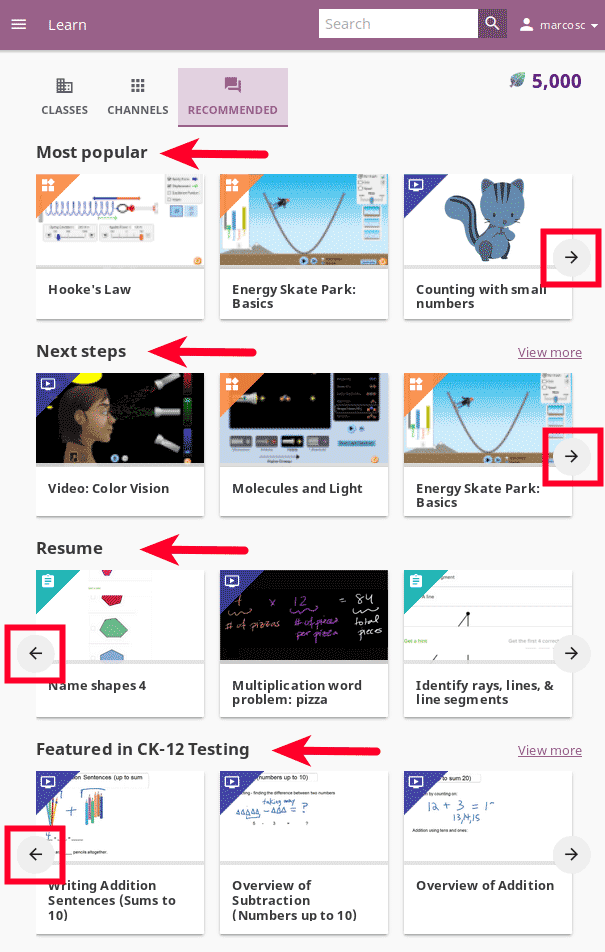
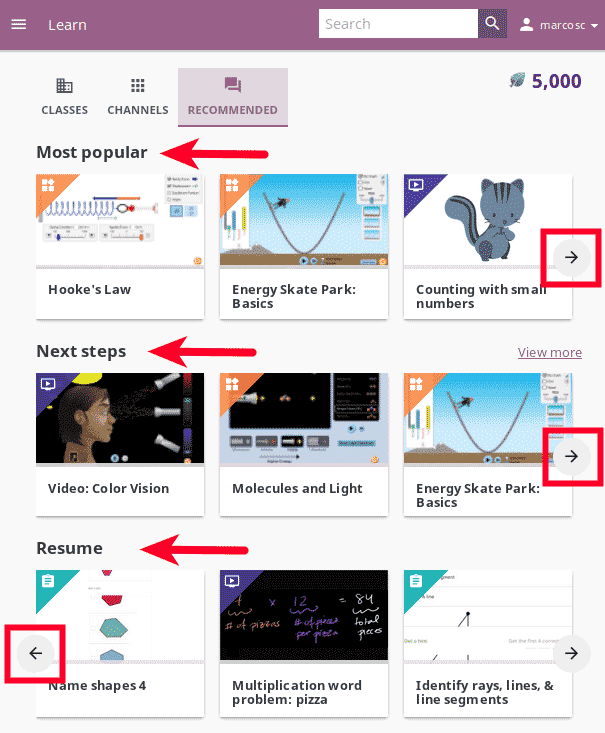
Added latest Navya's suggestions and removed 'Featured' from recommended content

diff --git a/docs/learn.rst b/docs/learn.rst
@@ -27,9 +27,16 @@ To sign in to **Kolibri** and start learning, follow these steps:
    If you start browsing Kolibri as a guest, you need either to select **Sign in** option from the **Guest** menu in the upper right corner, or from the sidebar menu (left or bottom) to open the sign-in page.
 
 	.. figure:: img/learn-page-signin.png
-		:alt: Location of links to "Sign in" to Kolibri.
+		:alt: "Sign in" link in the sidebar.
 
-		Location of links to "Sign in" to Kolibri.
+		"Sign in" link in the sidebar.
+
+
+	.. figure:: img/learn-page-signin2.png
+	    :alt: "Sign in" link in the user menu.
+
+	    "Sign in" link in the user menu.
+
 
 Once you have logged in into Kolibri, you can see and edit your user data from the **Profile** option in the main sidebar menu (below **Learn**).
 
@@ -84,8 +91,7 @@ In this tab (|recommended| icon) you can see various sections:
 
 * **Most popular** displays the most frequently used materials in your school or facility.
 * **Next steps** displays suggestions according to  topics and materials you previously visited.
-* **Resume** displays activities that you started but haven’t finished yet.
-* **Featured in...** displays a preview of activities for each content channel you have access on Kolibri.
+* **Resume** displays activities that you started but haven't finished yet.
 
 These learning topics and materials are either related to what you were doing the last time you used Kolibri. or recommended by your teachers and coaches.
 

diff --git a/docs/coach.rst b/docs/coach.rst
@@ -109,10 +109,10 @@ Use this tab (|channels| icon) to access the full report of activity progress fo
 
 When you navigate to the last level in the topic tree, you can see the average progress of all class learners for each exercise or resource (video, document, HTML5 activity) in that particular topic.
 
-Support Resources for Coaches
-~~~~~~~~~~~~~~~~~~~~~~~~~~~~~
+Coaches Support Resources
+~~~~~~~~~~~~~~~~~~~~~~~~~
 
-`Kolibri Studio <https://studio.learningequality.org/>`_ supports the option to set visibility for any resource added to content channels as a **Coach resource**. When content curators set the visibility this way, the resource in Kolibri will not be visible to learners, but only to admins, facility coaches, or other users assigned to coach classes.
+`Kolibri Studio <https://studio.learningequality.org/>`_ supports the option to set visibility for any resource added to content channels as a **Coach resource**. When content curators set the visibility this way, the resource in Kolibri will not be visible to learners, but only to admins, facility coaches, or other users assigned to coach classes. These materials can be lesson plans, professional development readings, training materials, etc. only viewable by coaches and not learners. 
 
 	.. figure:: img/coach-resource-studio.png
 	  :alt: Setting the visibiility of content in Kolibri Studio.

diff --git a/docs/manage/_groups.rst b/docs/manage/_groups.rst
@@ -4,7 +4,7 @@
 Manage Groups
 ~~~~~~~~~~~~~
 
-In case you need to further divide learners inside classes, for example to address the different progress needs or levels, you can use the **Groups** feature. Create and delete groups, as well as assign learners to them from the **Groups** tab in your **Coach** dashboard tab (|groups| icon). Default view displays the list of all groups for the selected class, with the list of assigned learners for each group.
+In case you need to further divide learners inside classes, for example to address the different progress needs, you can use the **Groups** feature. Create and delete groups, as well as assign learners to them from the **Groups** tab in your **Coach** dashboard tab (|groups| icon). Default view displays the list of all groups for the selected class, with the list of assigned learners for each group.
 
 	.. image:: img/groups.png
 	  :alt: manage learner groups

diff --git a/docs/manage/_lessons.rst b/docs/manage/_lessons.rst
@@ -76,6 +76,18 @@ You can change the visibility of the lesson that you set when you initially crea
 #. Click **Save** to confirm, or **Cancel** to exit without change.
 
 
+View Lesson Progress
+--------------------
+
+After activating the lesson and making it available for the learners, you can view the cumulative progress for each resource in the main lesson view. Click the title of a specific resource to see the progress by all the learners to whom it was assigned.  
+
+  .. figure:: img/lesson-report-detail.png
+    :alt: Open individual lesson resource to see the progress for each learner.
+
+    Open individual lesson resource to see the progress for each learner.
+
+Click on the column headers to order the results by name, progress, group or the time the resource was accessed. 
+
 Copy Lesson
 -----------
 

diff --git a/docs/manage/_users.rst b/docs/manage/_users.rst
@@ -37,10 +37,6 @@ When you create a new *Coach* user account, or change the role to *Coach* for an
 	  :alt: choose between class coach and facility coach
 
 
-.. tip::
-  You can change the role of an advanced *Learner* user to *Class coach* to help you manage the instruction of the rest of the learners in that class.
-
-
 Select Users by Type
 --------------------
 
